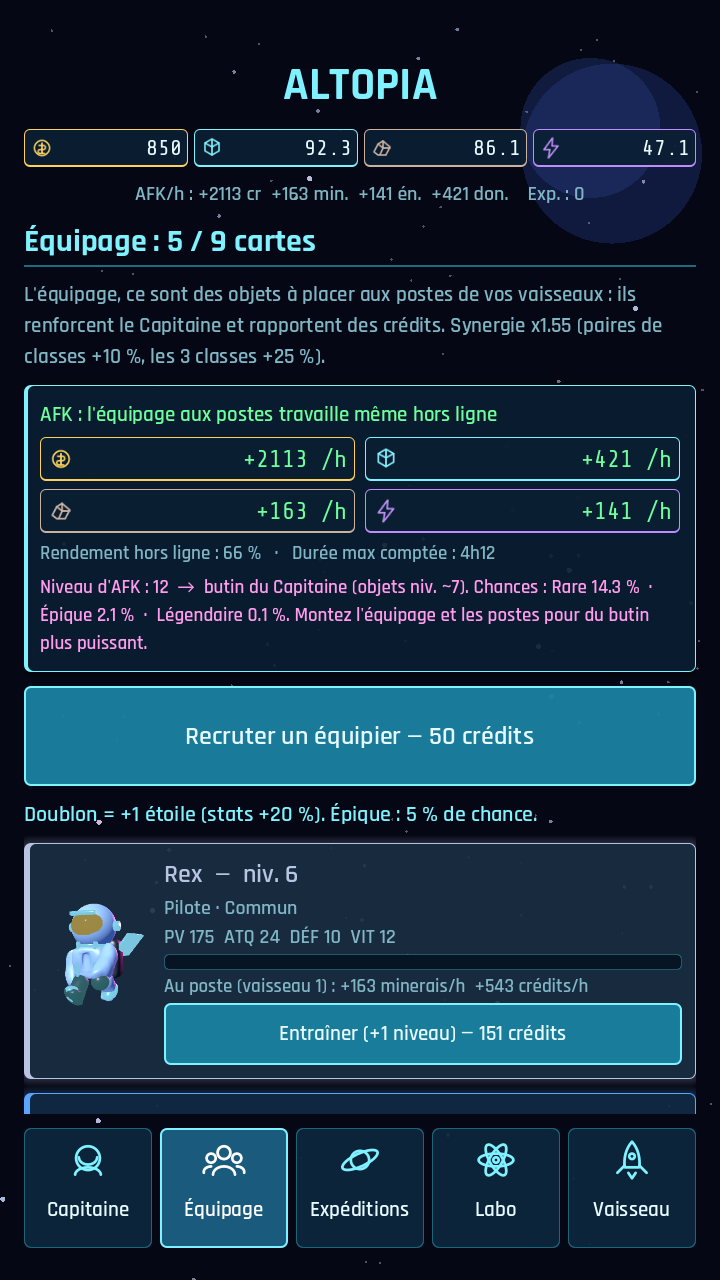
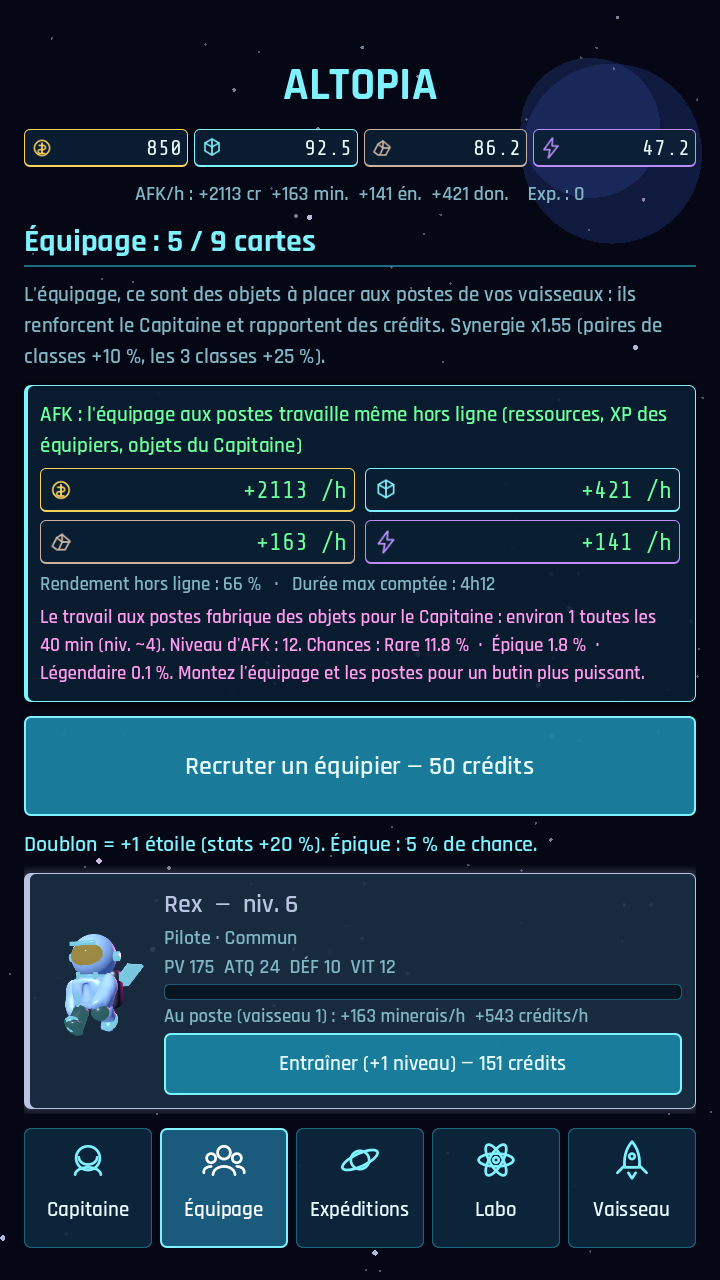
Expéditions : jeu en direct avec le Capitaine (pause hors ligne) ; AFK : l'équipage aux postes gagne l'XP et fabrique le butin du Capitaine
Claude-Session: https://claude.ai/code/session_0142Jyo9JqwzA1QeKtk2pHDW

Changed region(s): [[0.0306, 0.3125, 0.9778, 0.875]]

diff --git a/docs/AFK.md b/docs/AFK.md
@@ -20,10 +20,11 @@ Ce document décrit le socle de durée (Labo, plafonds de niveau) et les résult
 - **Accélérer** : retire 25 % de la durée totale contre de l'énergie, 2 fois par recherche au plus (le rythme reste prévisible).
 - **21 recherches** : production, gains d'expédition, XP, vitesse, rendement et coffre hors ligne, butin, automatisation du labo, postes de recherche, et deux **académies** qui relèvent les plafonds de niveau. Les lignes de base ont des paliers II et III qui s'ouvrent quand la précédente est terminée.
 
-## Deux jeux, un cercle
-- **L'AFK, c'est l'équipage.** Les cartes aux postes produisent, combattent **seules** en expédition (le Capitaine n'y participe pas) et gagnent l'XP. Il n'y a **plus de plafond de niveau** : la courbe d'XP (XP_PER_LEVEL x niveau) ralentit toute seule.
-- **Le RPG, c'est le Capitaine.** Son XP ne vient **que des anomalies** (contenu actif). Il garde 35 % des stats de l'équipage du vaisseau 1 et son équipement.
-- **Le pont : l'AFK fabrique l'équipement du Capitaine.** Chaque victoire AFK a une chance de faire tomber un objet. Le **niveau d'AFK** (niveaux de l'équipage aux postes + améliorations de postes et de vaisseau) fait monter la rareté (surtout épique et légendaire) et le niveau des objets. Le but : monter son AFK pour équiper un Capitaine plus fort et pousser plus loin dans les anomalies. Les chances sont affichées dans l'onglet Équipage.
+## Trois activités, un cercle
+- **L'AFK, c'est l'équipage aux postes** (continue hors ligne) : il produit des ressources, **gagne son XP en travaillant** (heures par niveau = 1 + 0,25 x niveau) et **fabrique les objets du Capitaine** (environ 1,2 par heure de travail). Il n'y a **plus de plafond de niveau** : la courbe d'XP (XP_PER_LEVEL x niveau) ralentit toute seule.
+- **Les expéditions ne sont pas de l'AFK** : elles se jouent en direct, **avec le Capitaine** à bord du vaisseau 1 (il y gagne de l'XP, 5 % d'une victoire d'anomalie par victoire) et son équipage qui l'accompagne (35 % de ses stats). Le vaisseau 2 est un drone piloté par l'équipage seul. **Hors ligne, les expéditions se mettent en pause** (rien n'est perdu). Les gains d'expédition sont multipliés par 12 pour compenser.
+- **Les anomalies** sont l'autre activité du Capitaine (voir plus bas) : c'est elles qui font surtout monter son niveau.
+- **Le pont : l'AFK fabrique l'équipement du Capitaine.** Le **niveau d'AFK** (niveaux de l'équipage aux postes + améliorations de postes et de vaisseau) fait monter la rareté (surtout épique et légendaire) et le niveau des objets. Les chances sont affichées dans l'onglet Équipage.
 
 ## Anomalies (Capitaine, onglet Capitaine)
 - Faille n : 2 sentinelles et 1 gardien, niveau d'ennemi 1 + 4 x (n-1). La faille n+1 s'ouvre quand on réussit la n.
@@ -33,27 +34,27 @@ Ce document décrit le socle de durée (Labo, plafonds de niveau) et les résult
 
 ## Règles d'économie
 - Niveau des ennemis AFK = 1 + (victoires / 150)^0,65 ; **chaque défaite fait redescendre le compteur de 10 %** : les ennemis s'adaptent, l'équipage gagne presque toujours (99 % en simulation).
-- Butin : 0,4 % par victoire AFK (~30 objets par jour) ; niveau d'objet = 3 x tier + niveau d'AFK / 8.
+- Butin : ~1,2 objet par heure de travail aux postes (~29 par jour) ; niveau d'objet = 3 + niveau d'AFK / 8.
 - Vitesse d'expédition : bonus additifs plafonnés à x2,5. Gains du rôle requis en niveau^0,7.
 
 ## Le Labo
 Recherches en temps réel (voir plus bas), file de 5 recherches payées d'avance, **recherche automatique** (un poste libre lance la plus courte recherche abordable). Les académies de plafond ont disparu avec les plafonds ; les recherches d'XP ne concernent plus que l'équipage.
 
 ## Résultats du simulateur (120 jours, robot)
-| Profil | Capitaine j7 / j30 / j90 | Faille max j90 | Niveau d'AFK j90 | Équipement j90 | Victoires AFK |
+| Profil | Capitaine j7 / j30 / j90 | Faille max j90 | Niveau d'AFK j90 | Équipement j90 | Victoires expéditions |
 |---|---|---|---|---|---|
-| casual (1 x 5 min/jour) | 27 / 56 / 98 | 180 | 634 | niv. 75, 3 légendaires | 99 % |
-| evening (1 x 15 min) | 28 / 60 / 102 | 188 | 512 | niv. 59, 5 légendaires | 99 % |
-| regular (3 x 8 min) | 35 / 64 / 110 | 176 | 545 | niv. 65, 5 légendaires | 99 % |
-| hardcore (6 x 10 min) | 37 / 70 / 119 | 271 | 689 | niv. 84, 4 légendaires | 99 % |
+| casual (1 x 5 min/jour) | 24 / 54 / 101 | 179 | 581 | niv. 68, 6 légendaires | 100 % |
+| evening (1 x 15 min) | 27 / 59 / 105 | 254 | 755 | niv. 90, 5 légendaires | 100 % |
+| regular (3 x 8 min) | 34 / 65 / 125 | 221 | 621 | niv. 75, 6 légendaires | 100 % |
+| hardcore (6 x 10 min) | 37 / 73 / 136 | 220 | 621 | niv. 74, 6 légendaires | 100 % |
 
-- Aucune période sans progrès de plus d'**1 jour**. Le joueur occasionnel progresse à chaque session ; le premier objet épique arrive vers le jour 7-14, les premiers légendaires vers le jour 14-30.
+- La plus longue période sans progrès est de **2 jours** au pire. Le premier objet épique arrive vers le jour 7, les premiers légendaires vers le jour 14-30.
 - XP perdue : **0** (plus de plafond). Défaites en anomalie : 0 (le robot ne tente que les failles qu'il peut gagner ; un joueur peut tenter plus haut, la charge lui est rendue).
-- Postes de recherche vides au début d'une session : 37 % (casual), 33 % (evening), 8 % (regular), 2 % (hardcore) **sans** la recherche automatique, qui règle ce cas.
+- Postes de recherche vides au début d'une session : 56 % (casual), 40 % (evening), 18 % (regular), 4 % (hardcore) **sans** la recherche automatique, qui règle ce cas.
 
 ### Limites connues
 - Le robot dépense au mieux : un vrai joueur sera plus lent. Les chiffres donnent la direction.
-- L'AFK ne présente presque plus de défi (99 % de victoires) : le défi est dans les anomalies. À voir selon les retours.
+- Les expéditions ne présentent presque plus de défi (les ennemis s'adaptent) : le défi est dans les anomalies. À voir selon les retours.
 - Le rythme de l'équipement (premiers légendaires entre le jour 14 et 30) et du Capitaine (niveau ~100 au jour 90) est à confirmer par des tests réels.
 - Garanties de butin et de recrutement, missions du jour : pas encore faites.
 

diff --git a/docs/ROADMAP.md b/docs/ROADMAP.md
@@ -9,7 +9,7 @@
 - [x] **V2.1 — Équipage AFK + loot RPG** : production même hors ligne, rendement et durée hors ligne, 6 emplacements, 5 raretés, bonus aléatoires, recyclage auto.
 - [x] **Style visuel R2** : thème verre/cyan, polices, icônes SVG, cartes d'équipement à cadre de rareté, combat et rapport hors ligne restylés ([STYLE.md](STYLE.md)).
 - [x] **Socle de durée** : Labo (recherches en temps réel, file, accélération), plafonds de niveau relevés par des académies, économie recalibrée, simulateur à 4 profils ([détails](AFK.md)).
-- [x] **Refonte « deux jeux »** : plus de plafonds de niveau, l'AFK est l'équipage seul, le Capitaine gagne son XP par les **anomalies** (contenu actif), et le niveau d'AFK fait monter la qualité du butin du Capitaine ([détails](AFK.md)).
+- [x] **Refonte « deux jeux »** : plus de plafonds de niveau, l'AFK (équipage aux postes) fabrique les objets du Capitaine, les expéditions sont un jeu en direct avec le Capitaine, et les **anomalies** font surtout monter son niveau, et le niveau d'AFK fait monter la qualité du butin du Capitaine ([détails](AFK.md)).
 - [ ] **V2-C — Anomalies (suite : boss de secteur, tour d'épreuves)** (donjons solo, meilleur temps), **boss de secteur**, **tour d'épreuves**.
 - [ ] **V2-D — Campagne** : chapitres narratifs, un par secteur.
 - [ ] Vrais assets graphiques et sons.
